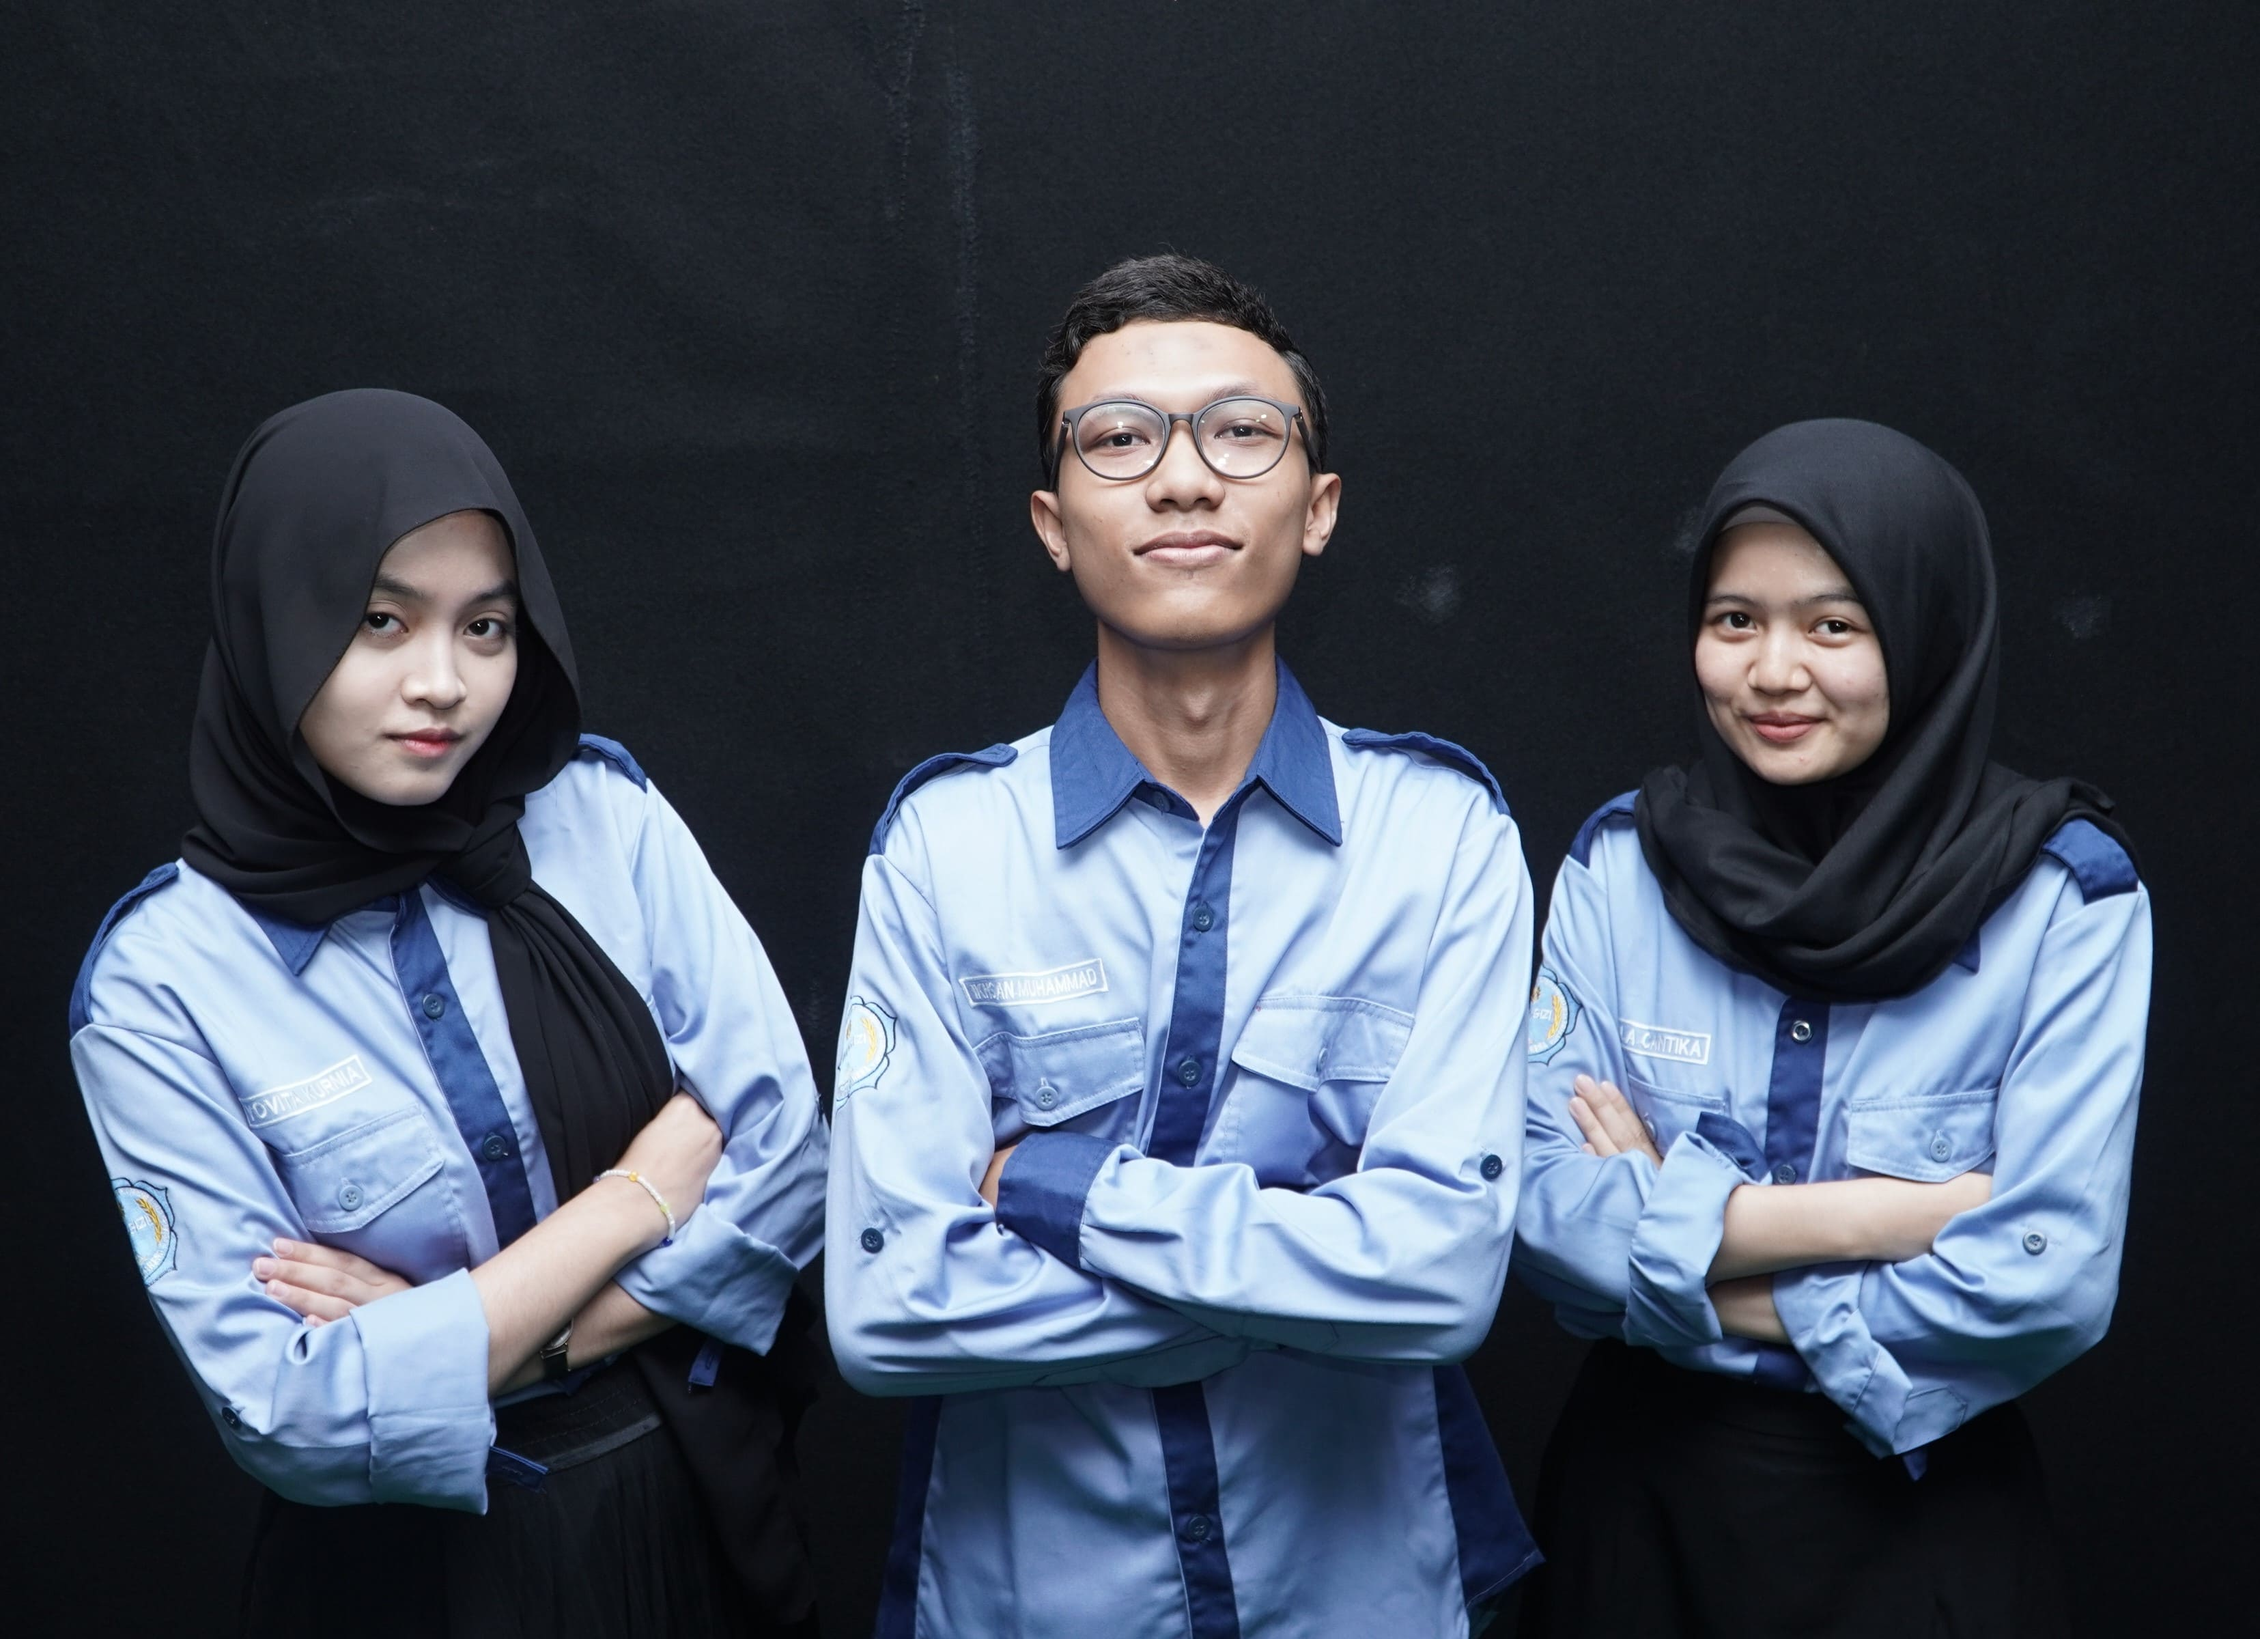
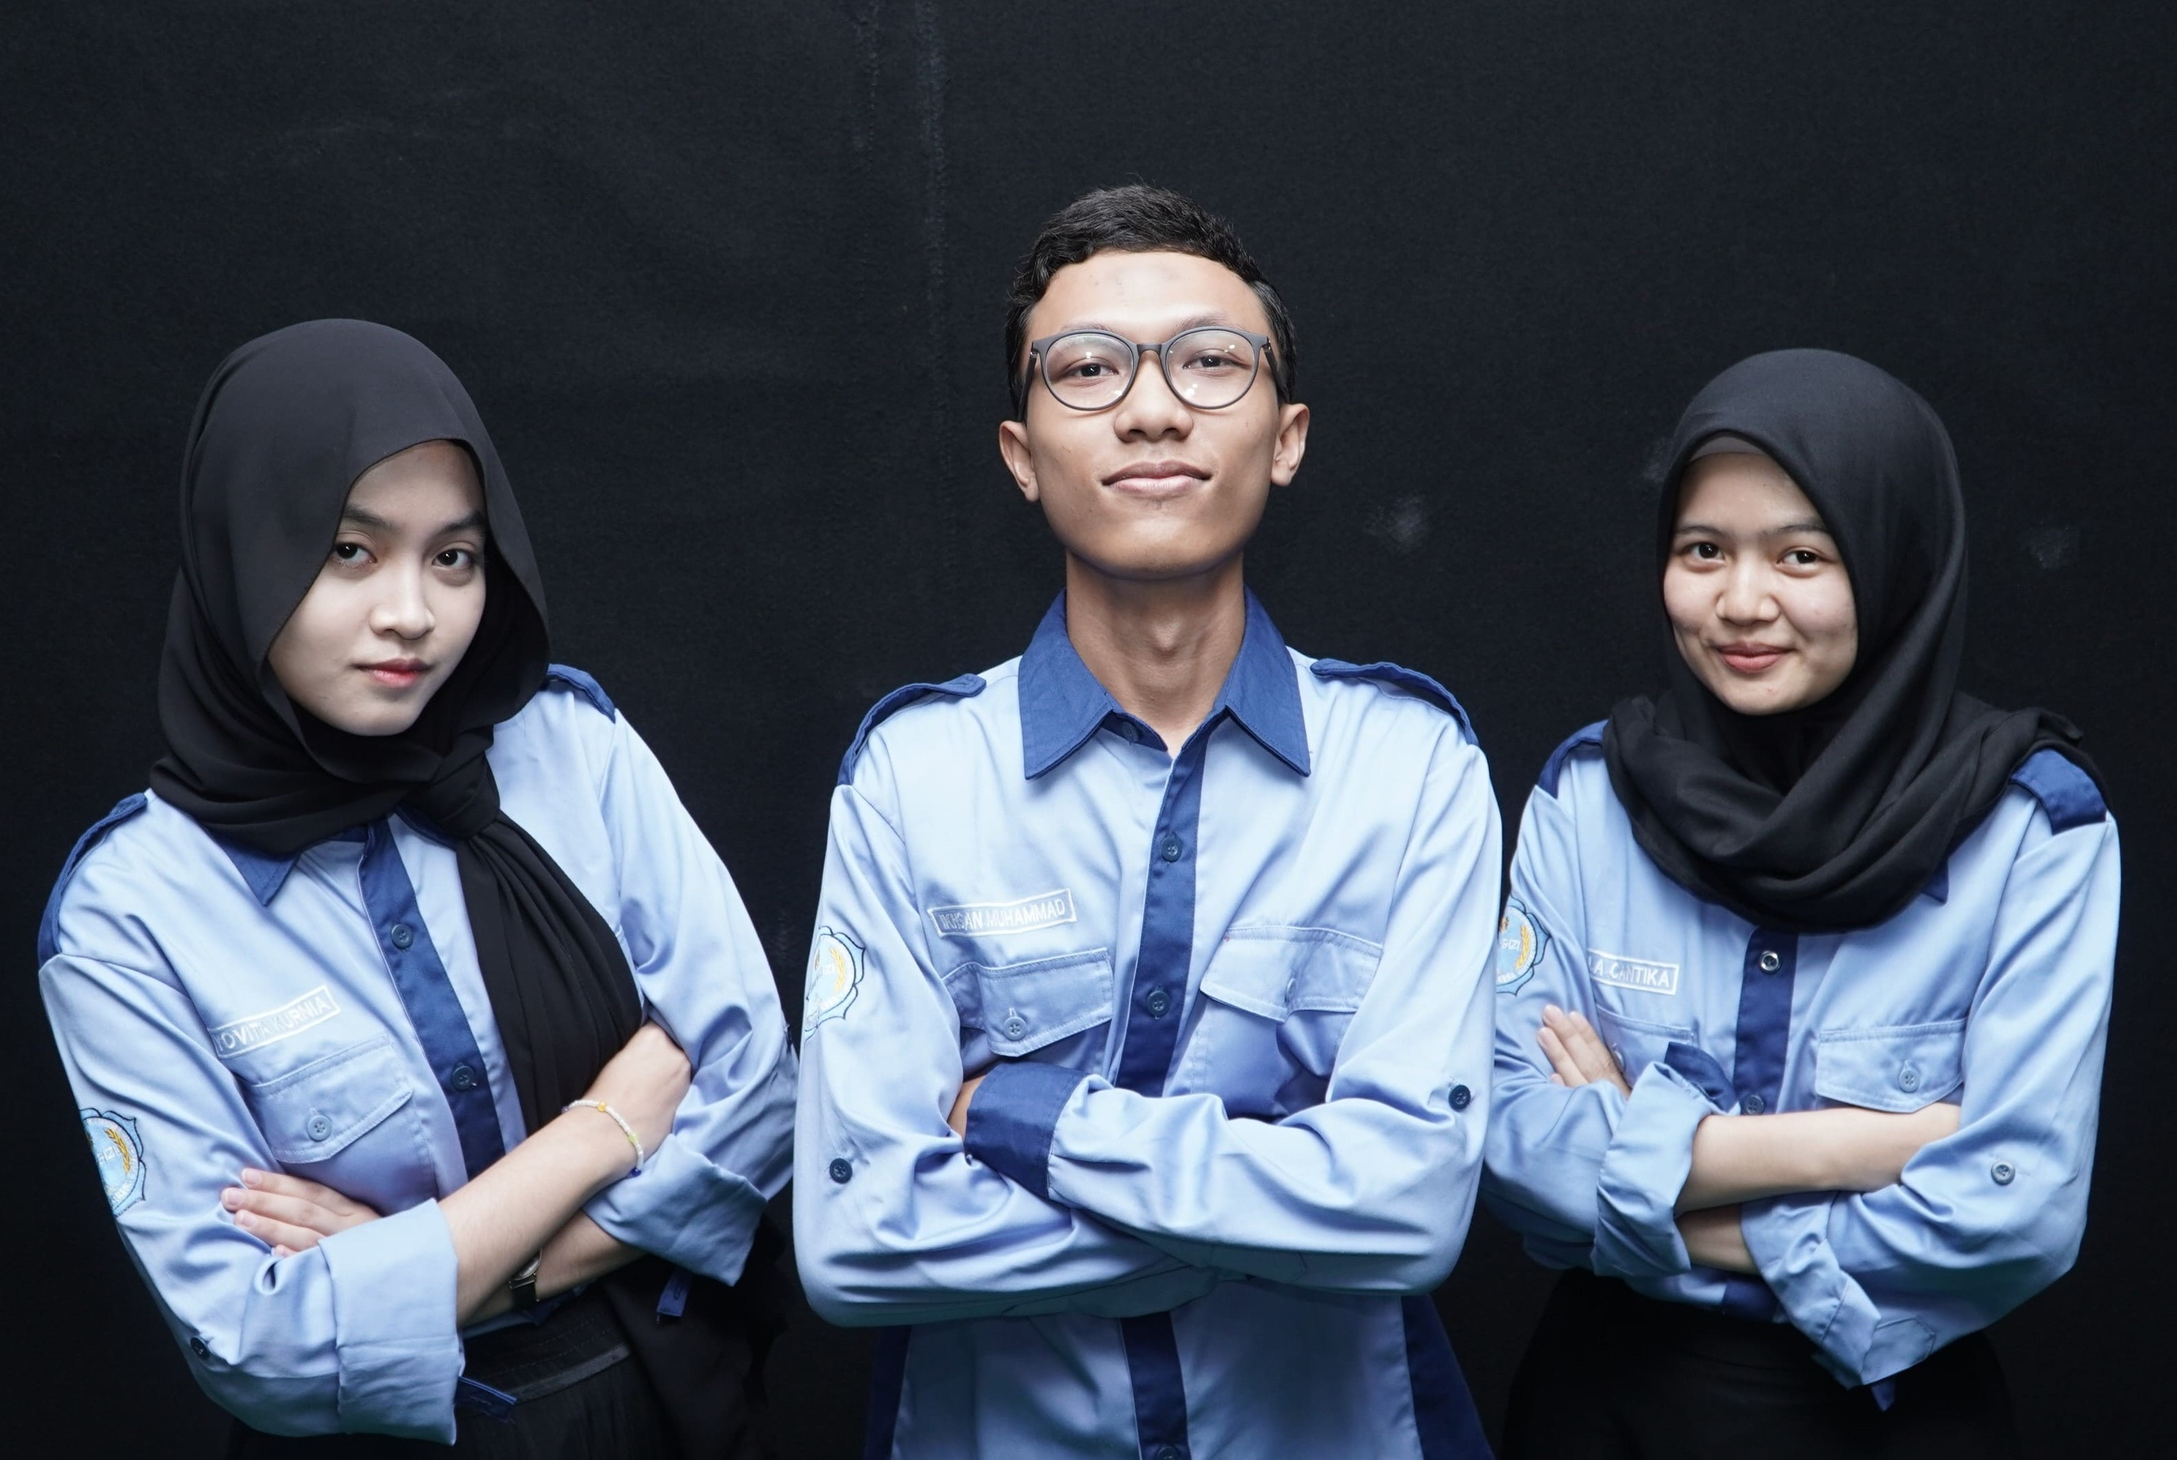
asset gambar

diff --git a/pages/index.vue b/pages/index.vue
@@ -209,13 +209,13 @@
 <script setup>
 import PartnerMitraIndex from '~/components/partner-mitra-index.vue'
 import bg from '@/assets/images/bg/bg.png'
-import home1 from '@/assets/images/team/img-1.jpg'
-import home2 from '@/assets/images/team/img-2.jpg'
-import home3 from '@/assets/images/team/img-3.jpg'
-import home4 from '@/assets/images/team/img-4.jpg'
-import home5 from '@/assets/images/team/img-12.jpg'
-import home6 from '@/assets/images/team/img-5.jpg'
-import home7 from '@/assets/images/team/img-8.jpg'
-import bea from '@/assets/images/team/t-6.jpg'
+import home1 from '@/assets/images/team/img-1.webp'
+import home2 from '@/assets/images/team/img-2.webp'
+import home3 from '@/assets/images/team/img-3.webp'
+import home4 from '@/assets/images/team/img-4.webp'
+import home5 from '@/assets/images/team/img-12.webp'
+import home6 from '@/assets/images/team/img-5.webp'
+import home7 from '@/assets/images/team/img-8.webp'
+import bea from '@/assets/images/team/t-6.webp'
 import Syarat from '~/components/syarat.vue'
 </script>

diff --git a/assets/css/tailwind.css b/assets/css/tailwind.css
@@ -544,7 +544,7 @@ video {
 }
 @media (min-width: 1024px){
   .container{
-    max-width: 1024px;
+    max-width: 1100px;
     padding-right: 45px;
     padding-left: 45px;
   }
